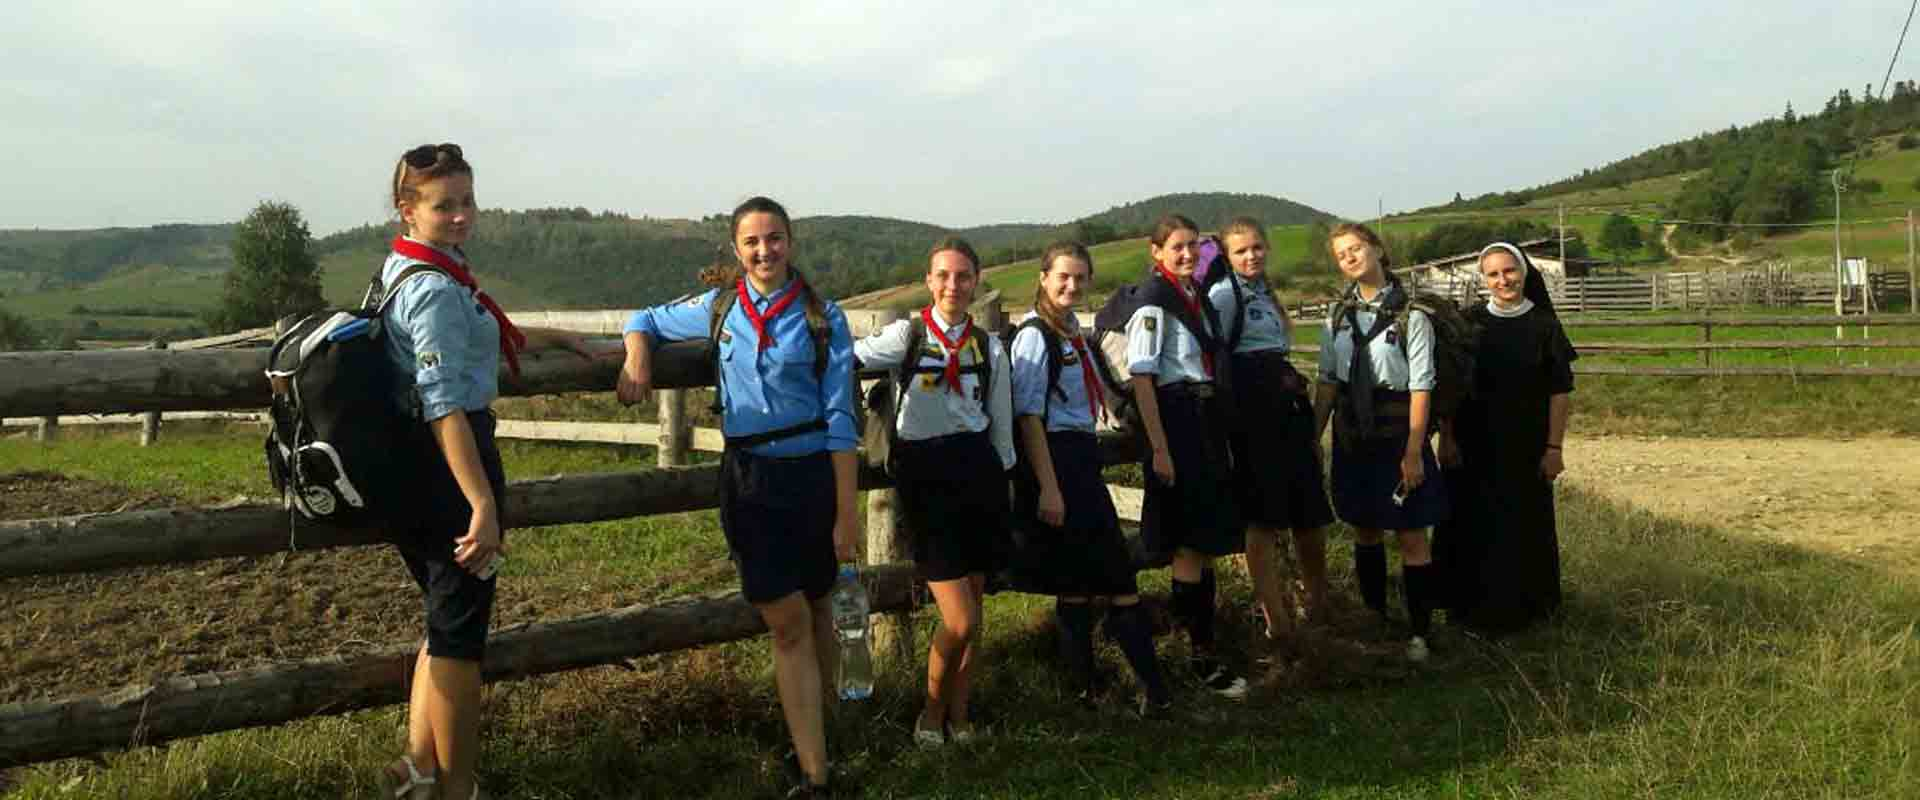
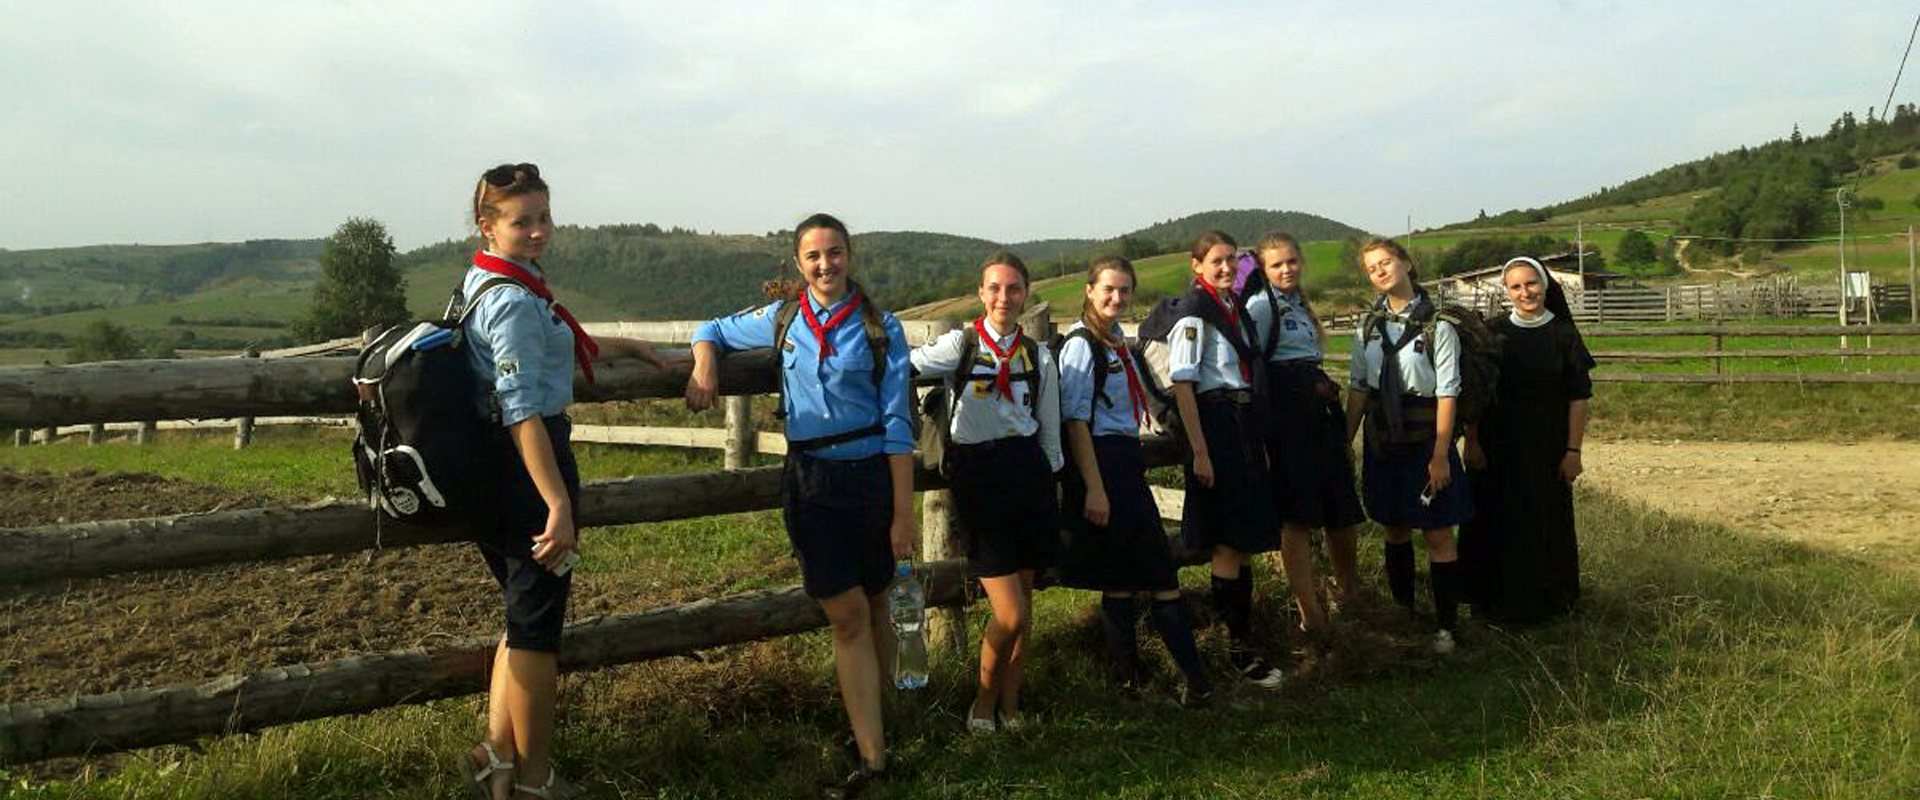
Update photos on pages

diff --git a/site/static/css/style.css b/site/static/css/style.css
@@ -3252,7 +3252,7 @@ img{
 
 .section-cover {
 	position:relative;
-	height: 260px;
+	height: 300px;
 	width: 100%;
 	background-position: center center;
 	background-size: cover;

diff --git a/site/layouts/page/info-page.html b/site/layouts/page/info-page.html
@@ -28,6 +28,4 @@
   </div>
 </div>
 
-
-
 {{ partial "footer.html" . }}
